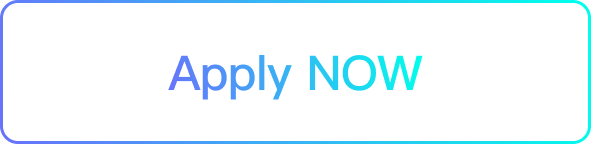
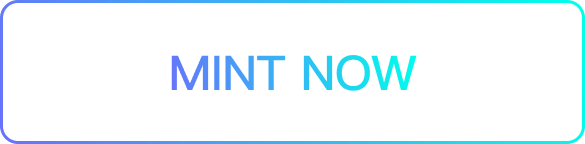
feat

Changed region(s): [[0.2769, 0.3611, 0.7385, 0.6944]]

diff --git a/src/pages/nft/index.tsx b/src/pages/nft/index.tsx
@@ -22,15 +22,18 @@ class NFT extends React.PureComponent<ReturnType<typeof mapState>> {
                     <Header />
                     <div styleName="block">
                         <img styleName="nft" src={require('Assets/nft1.png')} alt="" />
-                        <div styleName="title">PARROT NFT L1</div>
-                        <div styleName="subtitle">
+                        <div styleName="title" style={{ top: 95 }}>
+                            PARROT NFT L1
+                        </div>
+                        <div styleName="subtitle" style={{ top: 156 }}>
                             <div>Holding 「Parrot NFT - L1」</div>
                             to unlock 5 daily spreading spots and earn
                             <div>$SEED tokens</div>
+                            <div style={{ marginTop: 25 }}>Free Mint, Open to All</div>
                         </div>
                         <img
                             styleName="btn"
-                            style={{ top: 328 }}
+                            style={{ top: 360 }}
                             onClick={() => {
                                 if (!userInfo.token) {
                                     openLoginModal();
@@ -40,23 +43,31 @@ class NFT extends React.PureComponent<ReturnType<typeof mapState>> {
                                     openTaskModal();
                                 }
                             }}
-                            src={userInfo.level ? require('Assets/task.png') : require('Assets/task.png')}
+                            src={userInfo.level ? require('Assets/got.png') : require('Assets/task.png')}
                         />
                     </div>
                     <div styleName="line" />
                     <div styleName="block">
                         <img styleName="nft" src={require('Assets/nft2.png')} alt="" />
-                        <div styleName="title">PARROT NFT L2</div>
-                        <div styleName="subtitle">Free Mint, Open to All</div>
+                        <div styleName="title" style={{ top: 61 }}>
+                            PARROT NFT L2
+                        </div>
+                        <div styleName="subtitle" style={{ top: 122 }}>
+                            Holding 「Parrot NFT - L2」
+                            <div>to unlock 3 Posts & 10 spreading spots daily</div>
+                            <div>and earn more $SEED</div>
+                            <div style={{ marginTop: 20 }}>Free Mint, Open to Whitelisted & Eligible</div>
+                            <div>Applicants</div>
+                        </div>
                         <img
                             styleName="btn"
-                            style={{ top: 244 }}
+                            style={{ top: 359 }}
                             onClick={() => {
                                 if (!userInfo.token) {
                                     openLoginModal();
                                 }
                             }}
-                            src={userInfo.level! > 1 ? require('Assets/apply.png') : require('Assets/apply.png')}
+                            src={userInfo.level! > 1 ? require('Assets/got.png') : require('Assets/apply.png')}
                         />
                     </div>
                     <Footer />

diff --git a/src/pages/nft/style.module.scss b/src/pages/nft/style.module.scss
@@ -30,7 +30,6 @@
             .title {
                 position: absolute;
                 left: 128px;
-                top: 110px;
                 line-height: 20px; /* 55.556% */
                 font-family: Source Han Sans CN;
                 font-style: normal;
@@ -41,7 +40,6 @@
             .subtitle {
                 position: absolute;
                 left: 128px;
-                top: 171px;
                 line-height: normal;
                 font-family: Source Han Sans CN;
                 font-style: normal;

diff --git a/src/utils/openLoginModal/style.module.scss b/src/utils/openLoginModal/style.module.scss
@@ -17,6 +17,7 @@
     }
     .title {
         margin-top: 30px;
+        width: 235px;
         line-height: 120%; /* 28.8px */
         text-align: center;
         font-family: Source Han Sans CN;
@@ -31,8 +32,8 @@
         justify-content: center;
         align-items: center;
         flex-shrink: 0;
-        margin-top: 25px;
-        margin-bottom: 29px;
+        margin-top: 16px;
+        margin-bottom: 24px;
         border: 1px solid rgba(248, 157, 53, 0.24);
         border-radius: 8px;
         width: 299px;

diff --git a/src/utils/openLoginModal/index.tsx b/src/utils/openLoginModal/index.tsx
@@ -41,7 +41,7 @@ class LoginModal extends React.PureComponent<{ close: Function }> {
         return (
             <div styleName="modal">
                 <img styleName="close" src={Require('close.svg')} onClick={() => close()} />
-                <div styleName="title">Connect with your wallet</div>
+                <div styleName="title">Please connect your wallet first</div>
 
                 <div
                     styleName="item"

diff --git a/src/components/Footer/index.tsx b/src/components/Footer/index.tsx
@@ -14,7 +14,7 @@ export default class Footer extends React.PureComponent {
                     <div styleName="img">
                         <img src={require('Assets/logo.png')} alt="" />
                     </div>
-                    @Parrot_buzz
+                    @Parrot
                 </div>
             </div>
         );

diff --git a/src/components/Footer/style.module.scss b/src/components/Footer/style.module.scss
@@ -35,7 +35,7 @@
         align-items: center;
         flex-shrink: 0;
         border-radius: 55px;
-        width: 264px;
+        width: 184px;
         height: 50px;
         background: linear-gradient(266deg, #00ffeb 1.29%, #6a6ffb 101.04%), #000;
         cursor: pointer;
